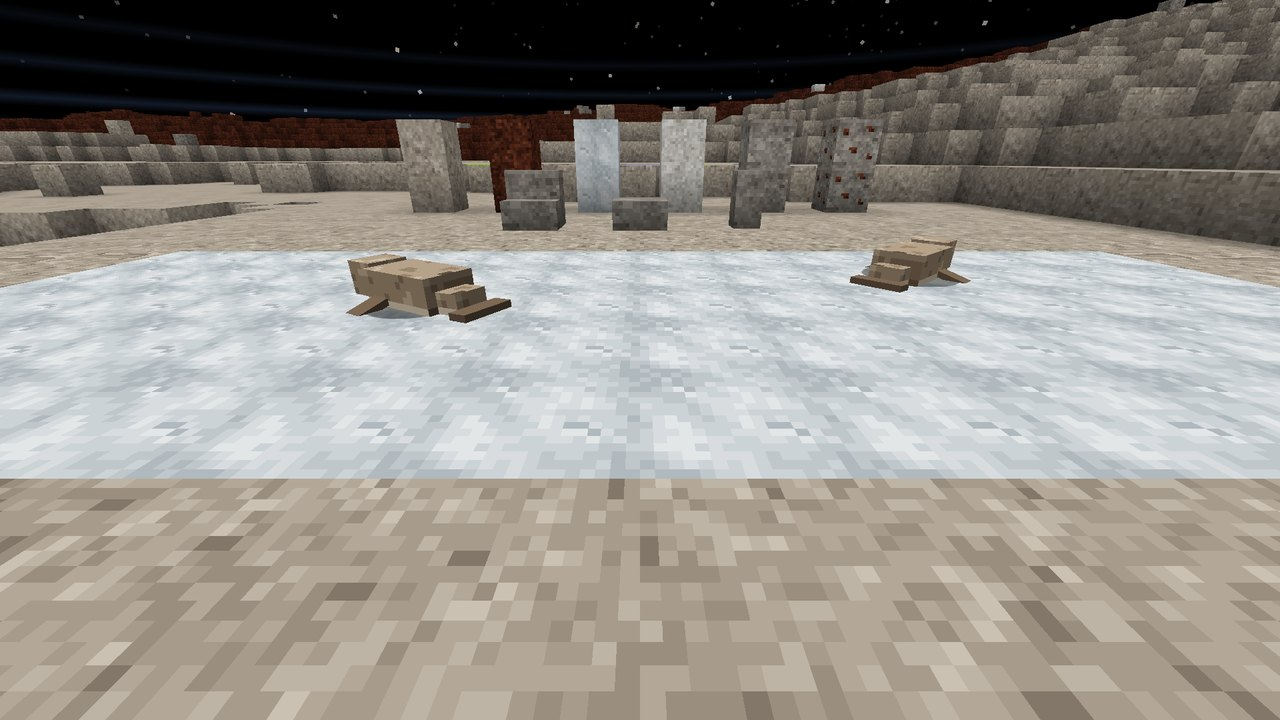
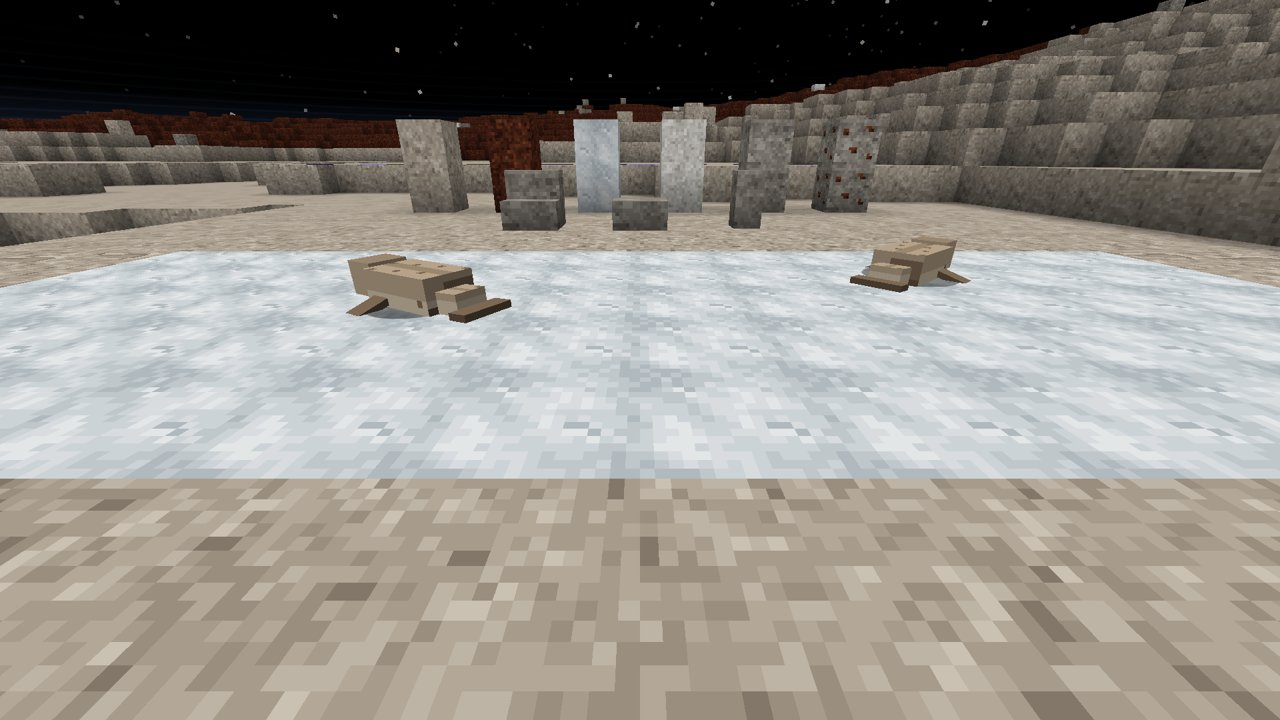
Nitrogen slider touch-up: calmer hide and a clear face
A gentle gradient from a darker spine to pale flanks with a few small
spots instead of noisy blotches, and a readable face: big dark eyes with
a glint, a dark nose, whisker dots. Before/after and Pluto frames.

diff --git a/tools/textures/modules/pluto.py b/tools/textures/modules/pluto.py
@@ -123,22 +123,36 @@ def nitrogen_slider():
     n = clustered(64, 64, 13901, passes=1)
 
     def body(face, x, y, fw, fh):
+        # calm: a gentle gradient from a darker spine to pale flanks and belly, a few small spots instead of blotches
         if face == 'bottom':
             return r[5]
         if face == 'top':
-            return r[1] if n[y][x] > 0.78 else noise_pick(r, 4, n, x, y)
+            d = abs(x - (fw - 1) / 2) / max(1, fw / 2)
+            spot = (x * 5 + y * 3) % 17 == 0
+            return r[2] if spot else r[3 if d < 0.35 else 4]
         if y >= fh - 1:
             return r[5]
-        return r[2] if n[y + 20][x] > 0.8 else noise_pick(r, 3, n, x + 20, y + 30)
+        if y == 0:
+            return r[4]
+        return r[2] if (x * 7 + y * 5) % 23 == 0 else r[4 if y < fh - 2 else 5]
 
     paint(cv, 0, 0, 8, 5, 13, body)
 
     def head(face, x, y, fw, fh):
-        if face == 'front' and fw == 6 and y == 1 and x in (1, 4):
-            return hexc('#14100d')
+        if face == 'front' and fw == 6:
+            # a clear face: big dark eyes with a glint, a dark nose, whisker dots on the muzzle
+            if y == 1 and x in (0, 1, 4, 5):
+                return hexc('#d9e4ea') if x in (1, 5) else hexc('#14100d')
+            if y == 2 and x in (0, 1, 4, 5):
+                return hexc('#14100d')
+            if y == 3 and x in (2, 3):
+                return hexc('#2a1f19')
+            if y == 4 and x in (1, 4):
+                return r[2]
+            return r[5] if y >= 3 else r[4]
         if face == 'bottom':
             return r[5]
-        return noise_pick(r, 4 if face == 'top' else 3, n, x + 40, y)
+        return r[3] if face == 'top' else r[4]
 
     paint(cv, 0, 18, 6, 5, 5, head)
     paint(cv, 22, 18, 3, 2, 2, lambda f, x, y, fw, fh: r[2] if f == 'front' and y == 0 else r[3])
